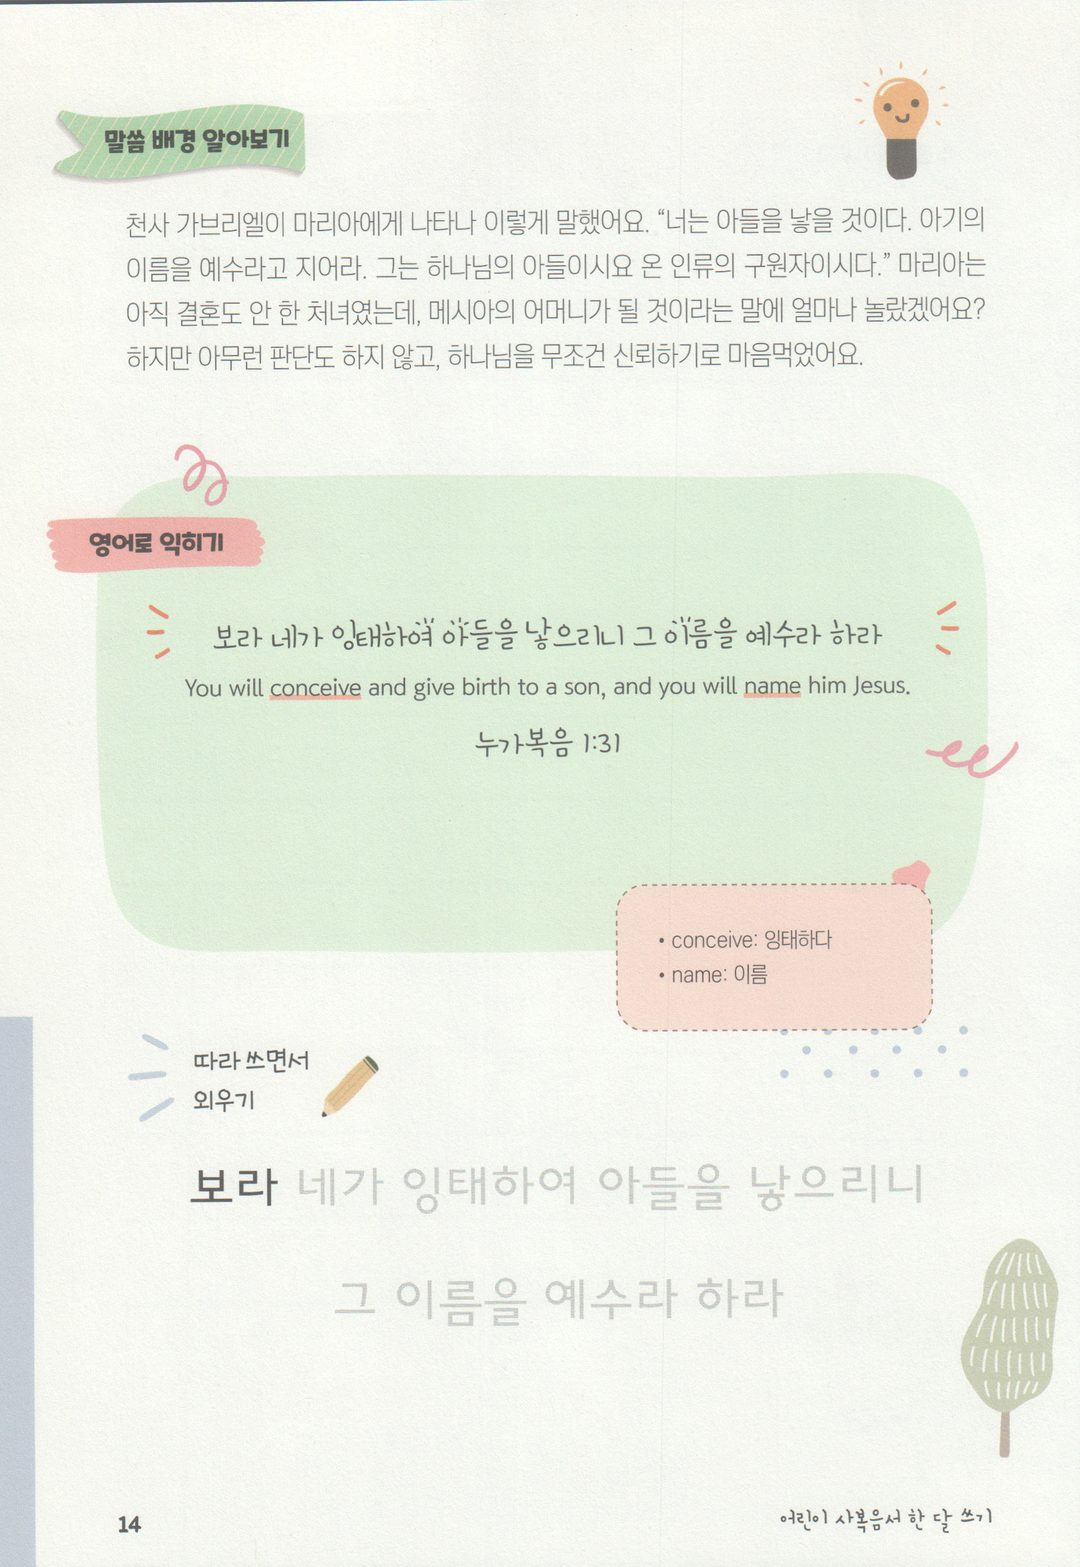
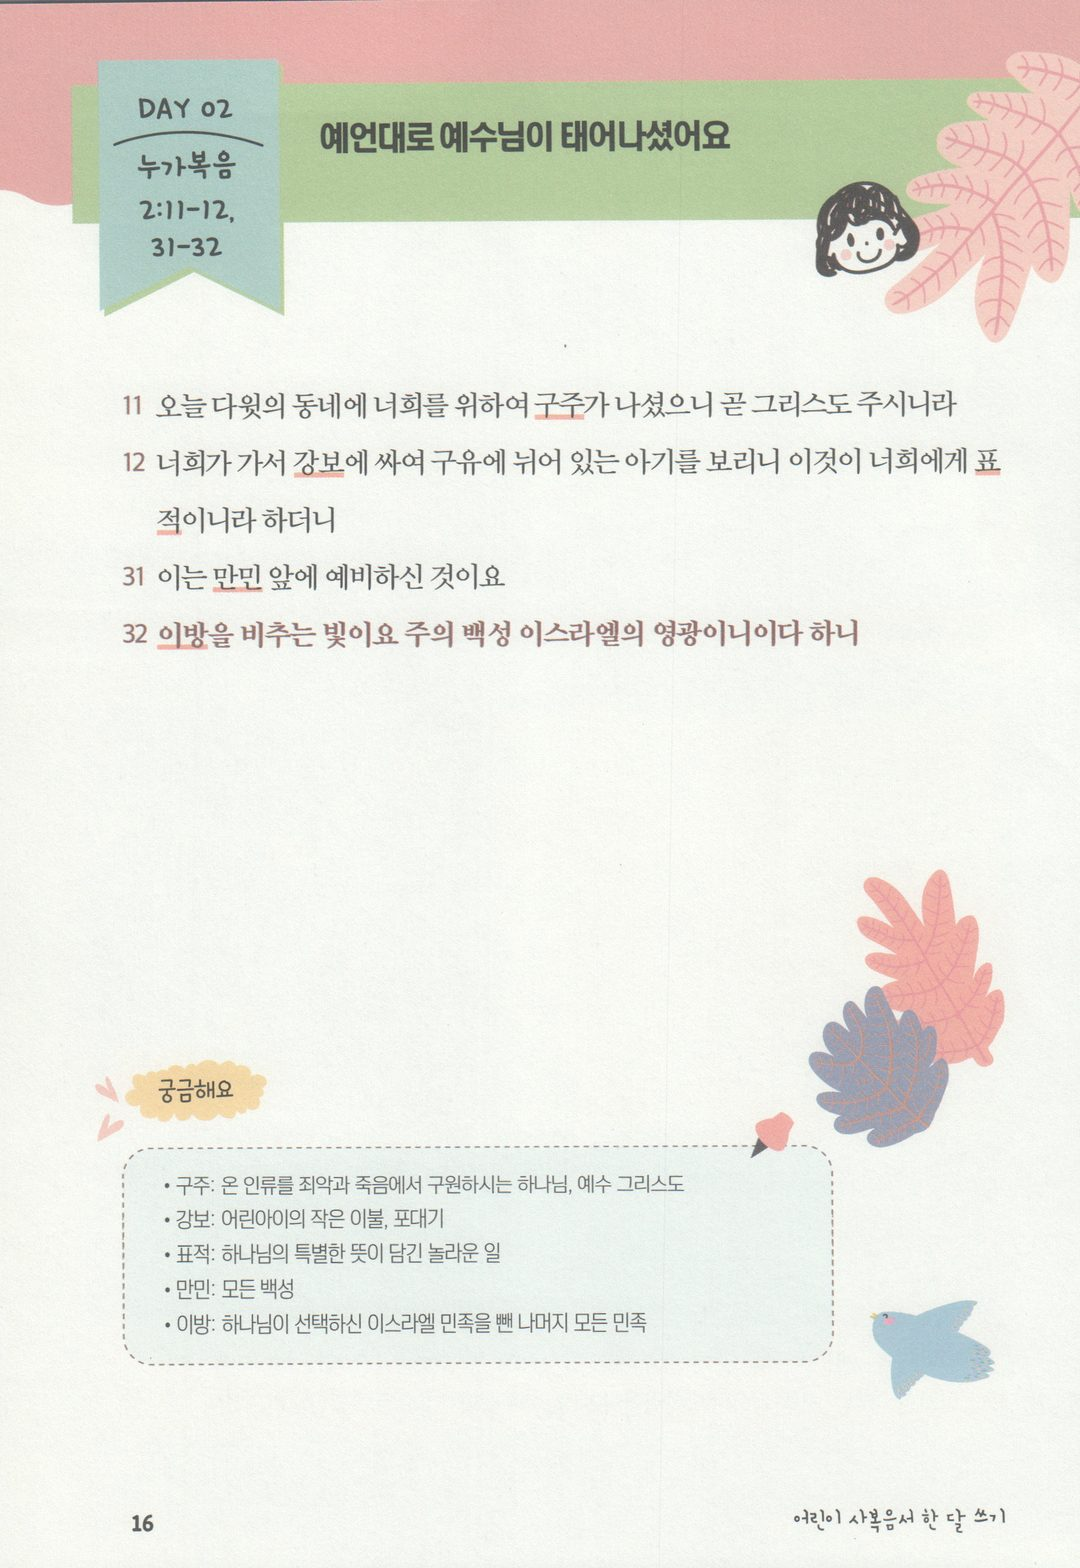
deploy: sion-mocktest

diff --git a/config.js b/config.js
@@ -612,11 +612,7 @@ window.GAME_CONFIG = {
   meta: {
   "generated_at": "2026-06-01",
   "week": "2026-W23",
-  "weakness_focus": [
-    "수능 기출 학습",
-    "평행선·정삼각형·비율 추적 (2026-05-28 오답, DE는 BC와 평행이 아니며 길이비도 없다.→AD:AB=1:2이고, AE:AC=1:2이므로 △ADE와 △ABC는 닮음이다.)",
-    "평행선·정삼각형·비율 추적 (2026-05-28 오답, 12cm→18cm)"
-  ],
+  "weakness_focus": [],
   "grade": "초6"
 },
   dashboard: {
@@ -629,7 +625,7 @@ window.GAME_CONFIG = {
   "total_plays": 154,
   "total_correct": 128,
   "accuracy": 83,
-  "last_date": "2026-05-31",
+  "last_date": "2026-06-01",
   "영역별": [
     {
       "subject": "국어",
@@ -2486,7 +2482,7 @@ window.GAME_CONFIG = {
   "images": [
     "./copywork/today.jpg"
   ],
-  "page": 1,
+  "page": 2,
   "total": 64,
   "image": "./copywork/today.jpg",
   "weekday": "월",
